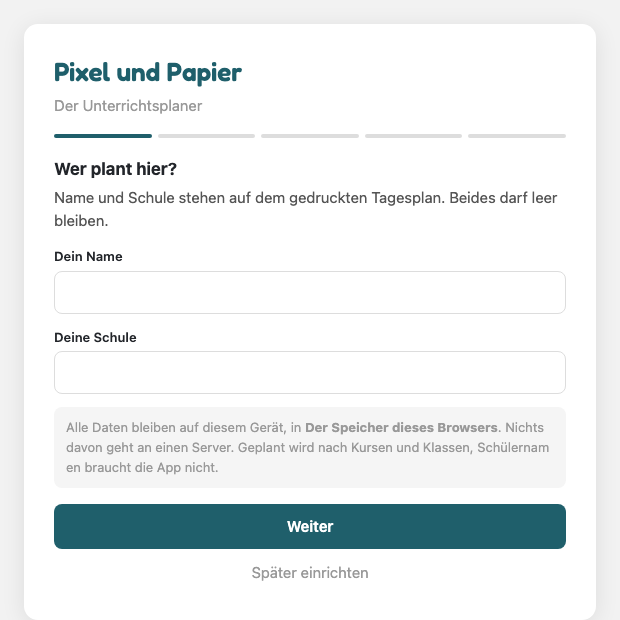
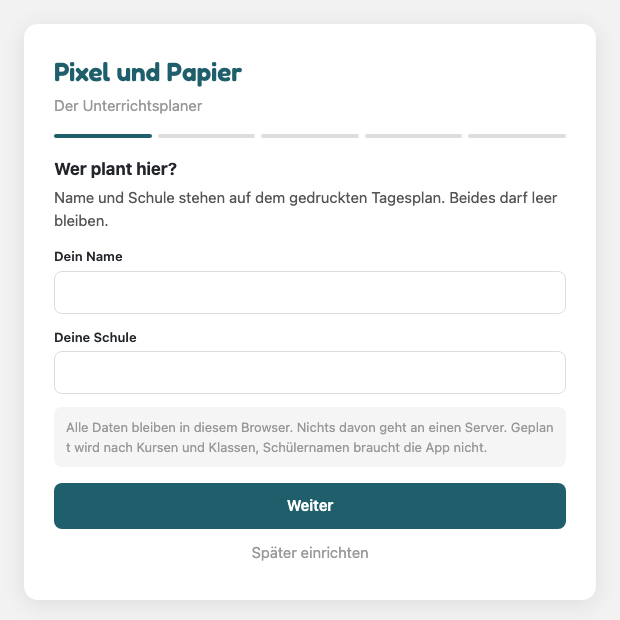
Anschrift eingetragen, Erststart-Foto ohne verunglückten Satz

Changed region(s): [[0.0613, 0.6742, 0.9194, 0.9806]]

diff --git a/index.html b/index.html
@@ -240,8 +240,8 @@
 
       <h3>Verantwortlich</h3>
       <p>Thomas Hermann</p>
-      <p class="platzhalter">[Straße, Hausnummer]</p>
-      <p class="platzhalter">[PLZ Ort]</p>
+      <p>Stefanstraße 6</p>
+      <p>86573 Obergriesbach</p>
       <p><a href="mailto:pixel.und.papier@icloud.com">pixel.und.papier@icloud.com</a></p>
 
       <h3>Kurz gesagt</h3>
@@ -328,7 +328,7 @@
     </nav>
   </div>
   <div class="fuss" id="impressum" style="padding-top:0">
-    <p class="leise" style="font-size:13px">Impressum: Thomas Hermann, <span>[Straße, Hausnummer]</span>, <span>[PLZ Ort]</span>, pixel.und.papier@icloud.com. Schriften Poppins und Lexend unter der SIL Open Font License, Dateien liegen auf dieser Seite.</p>
+    <p class="leise" style="font-size:13px">Impressum: Thomas Hermann, Stefanstraße 6, 86573 Obergriesbach, pixel.und.papier@icloud.com. Schriften Poppins und Lexend unter der SIL Open Font License, Dateien liegen auf dieser Seite.</p>
   </div>
 </footer>
 
